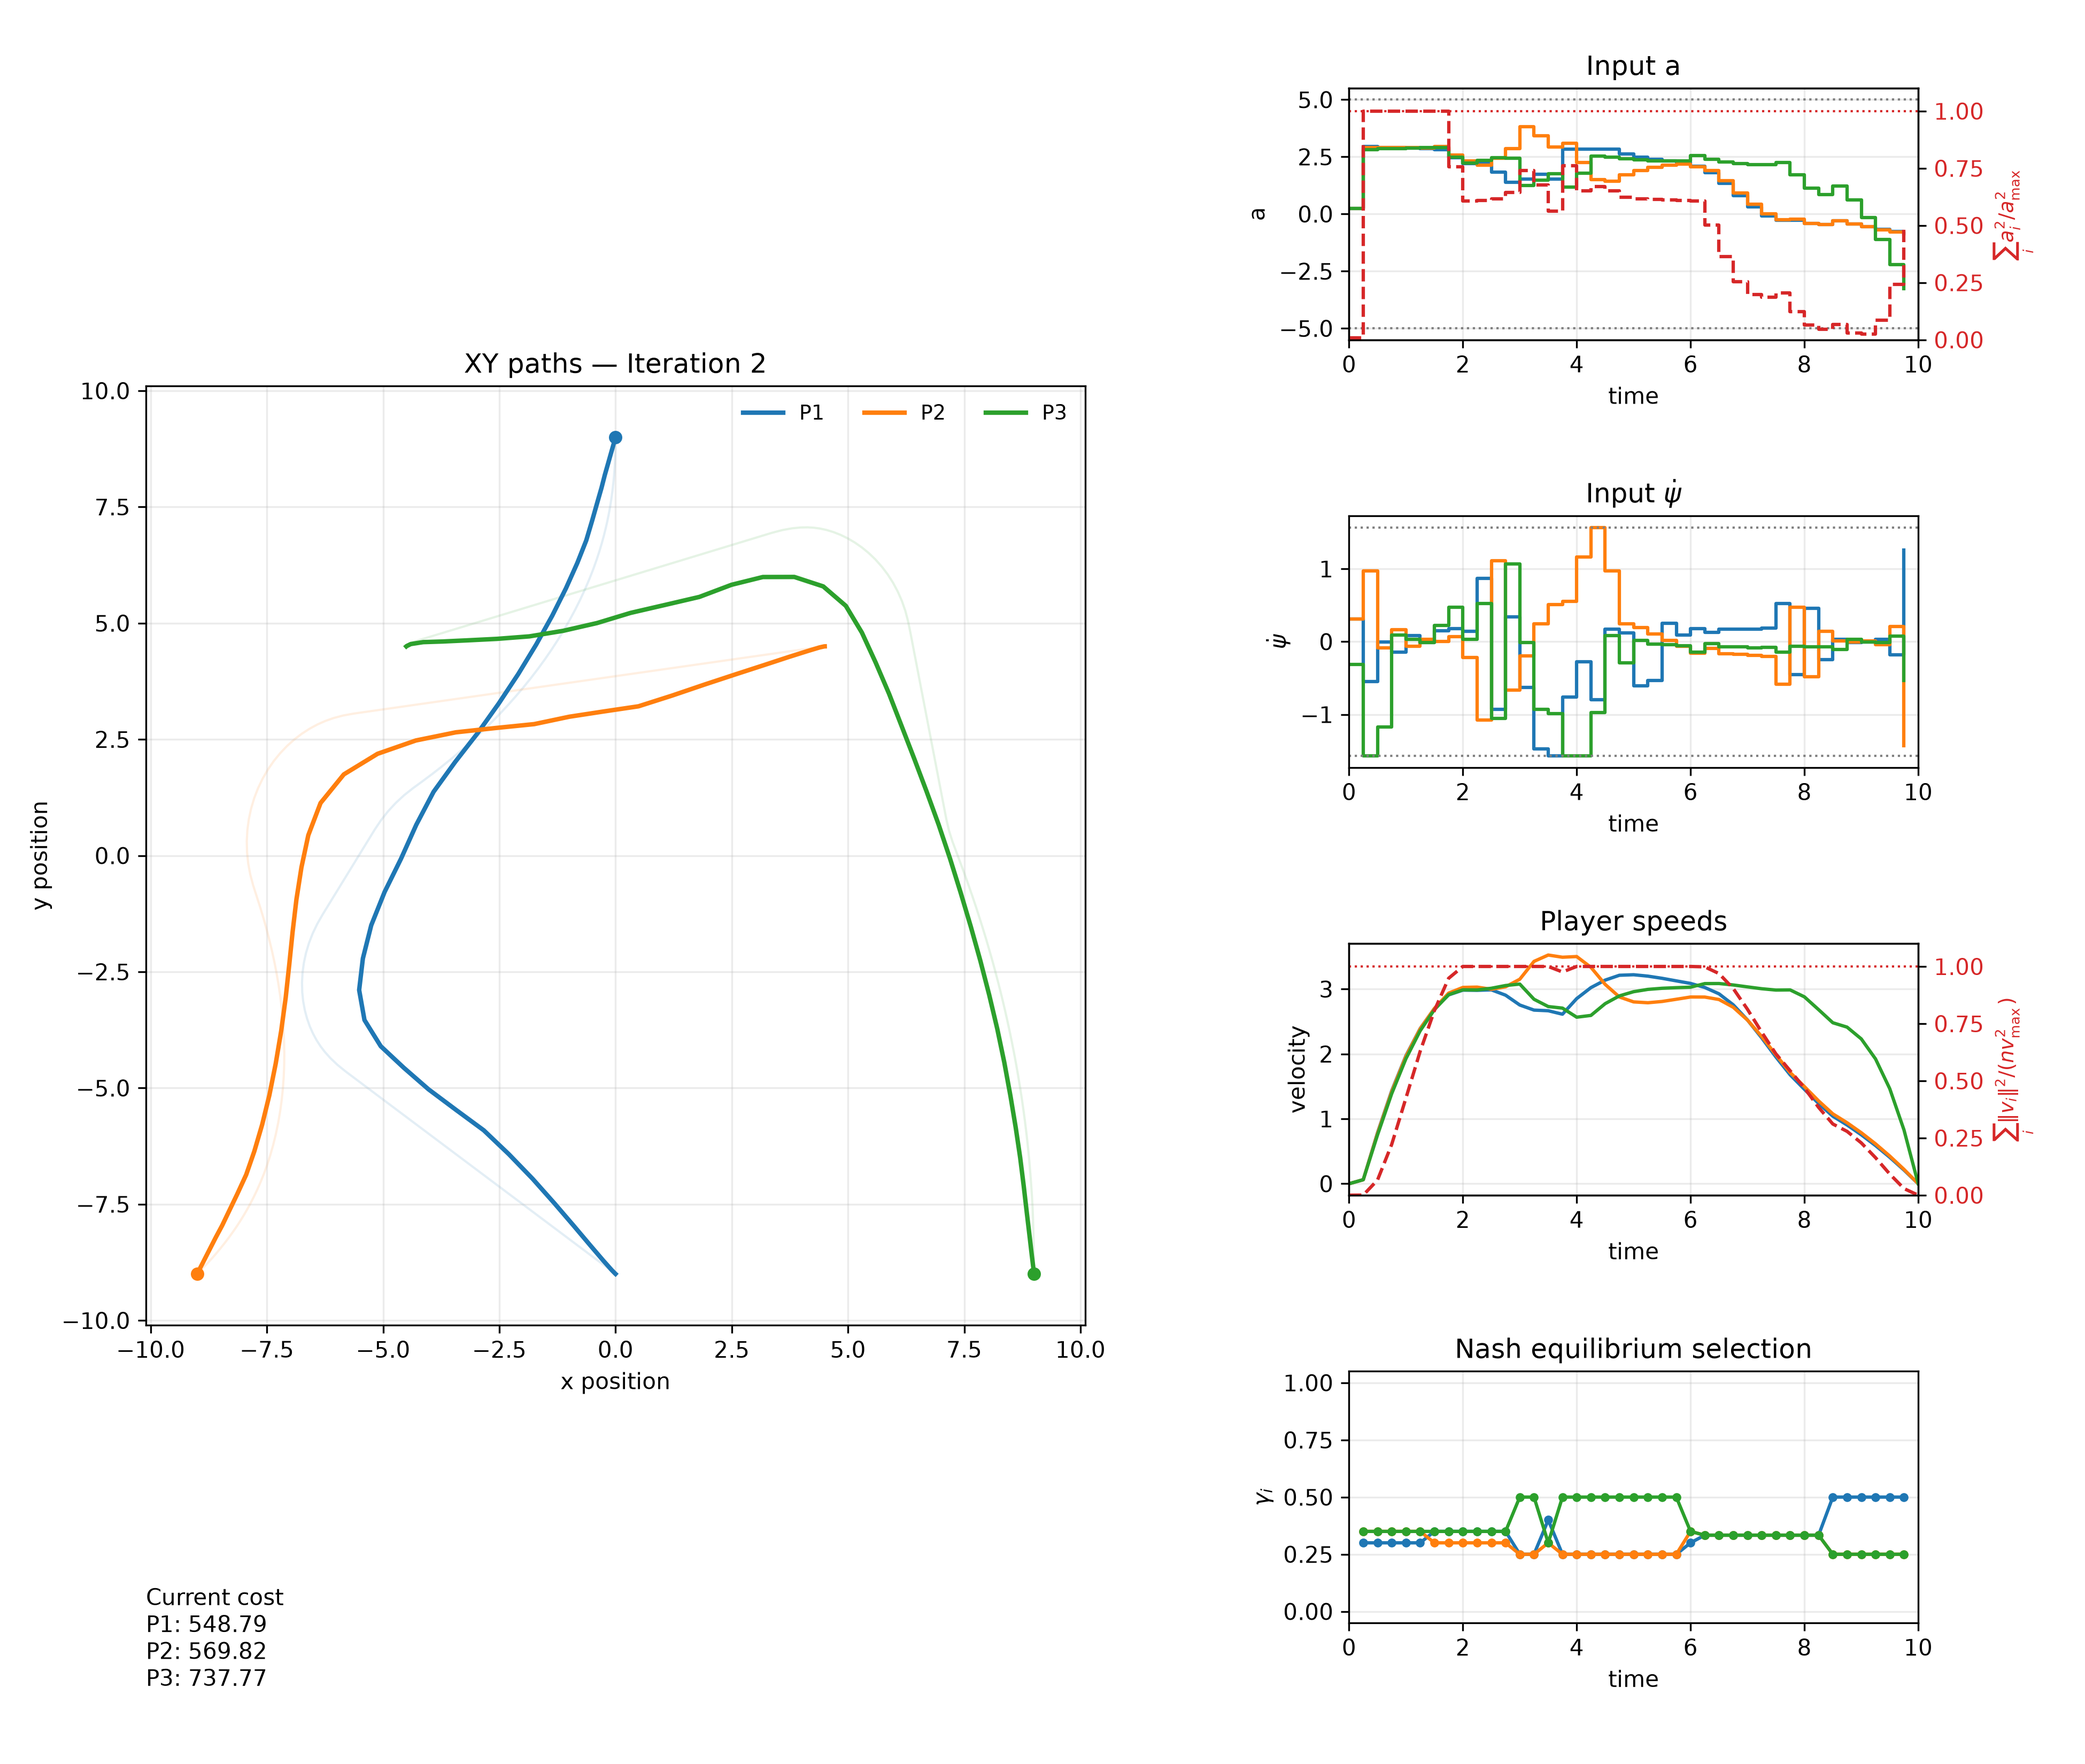
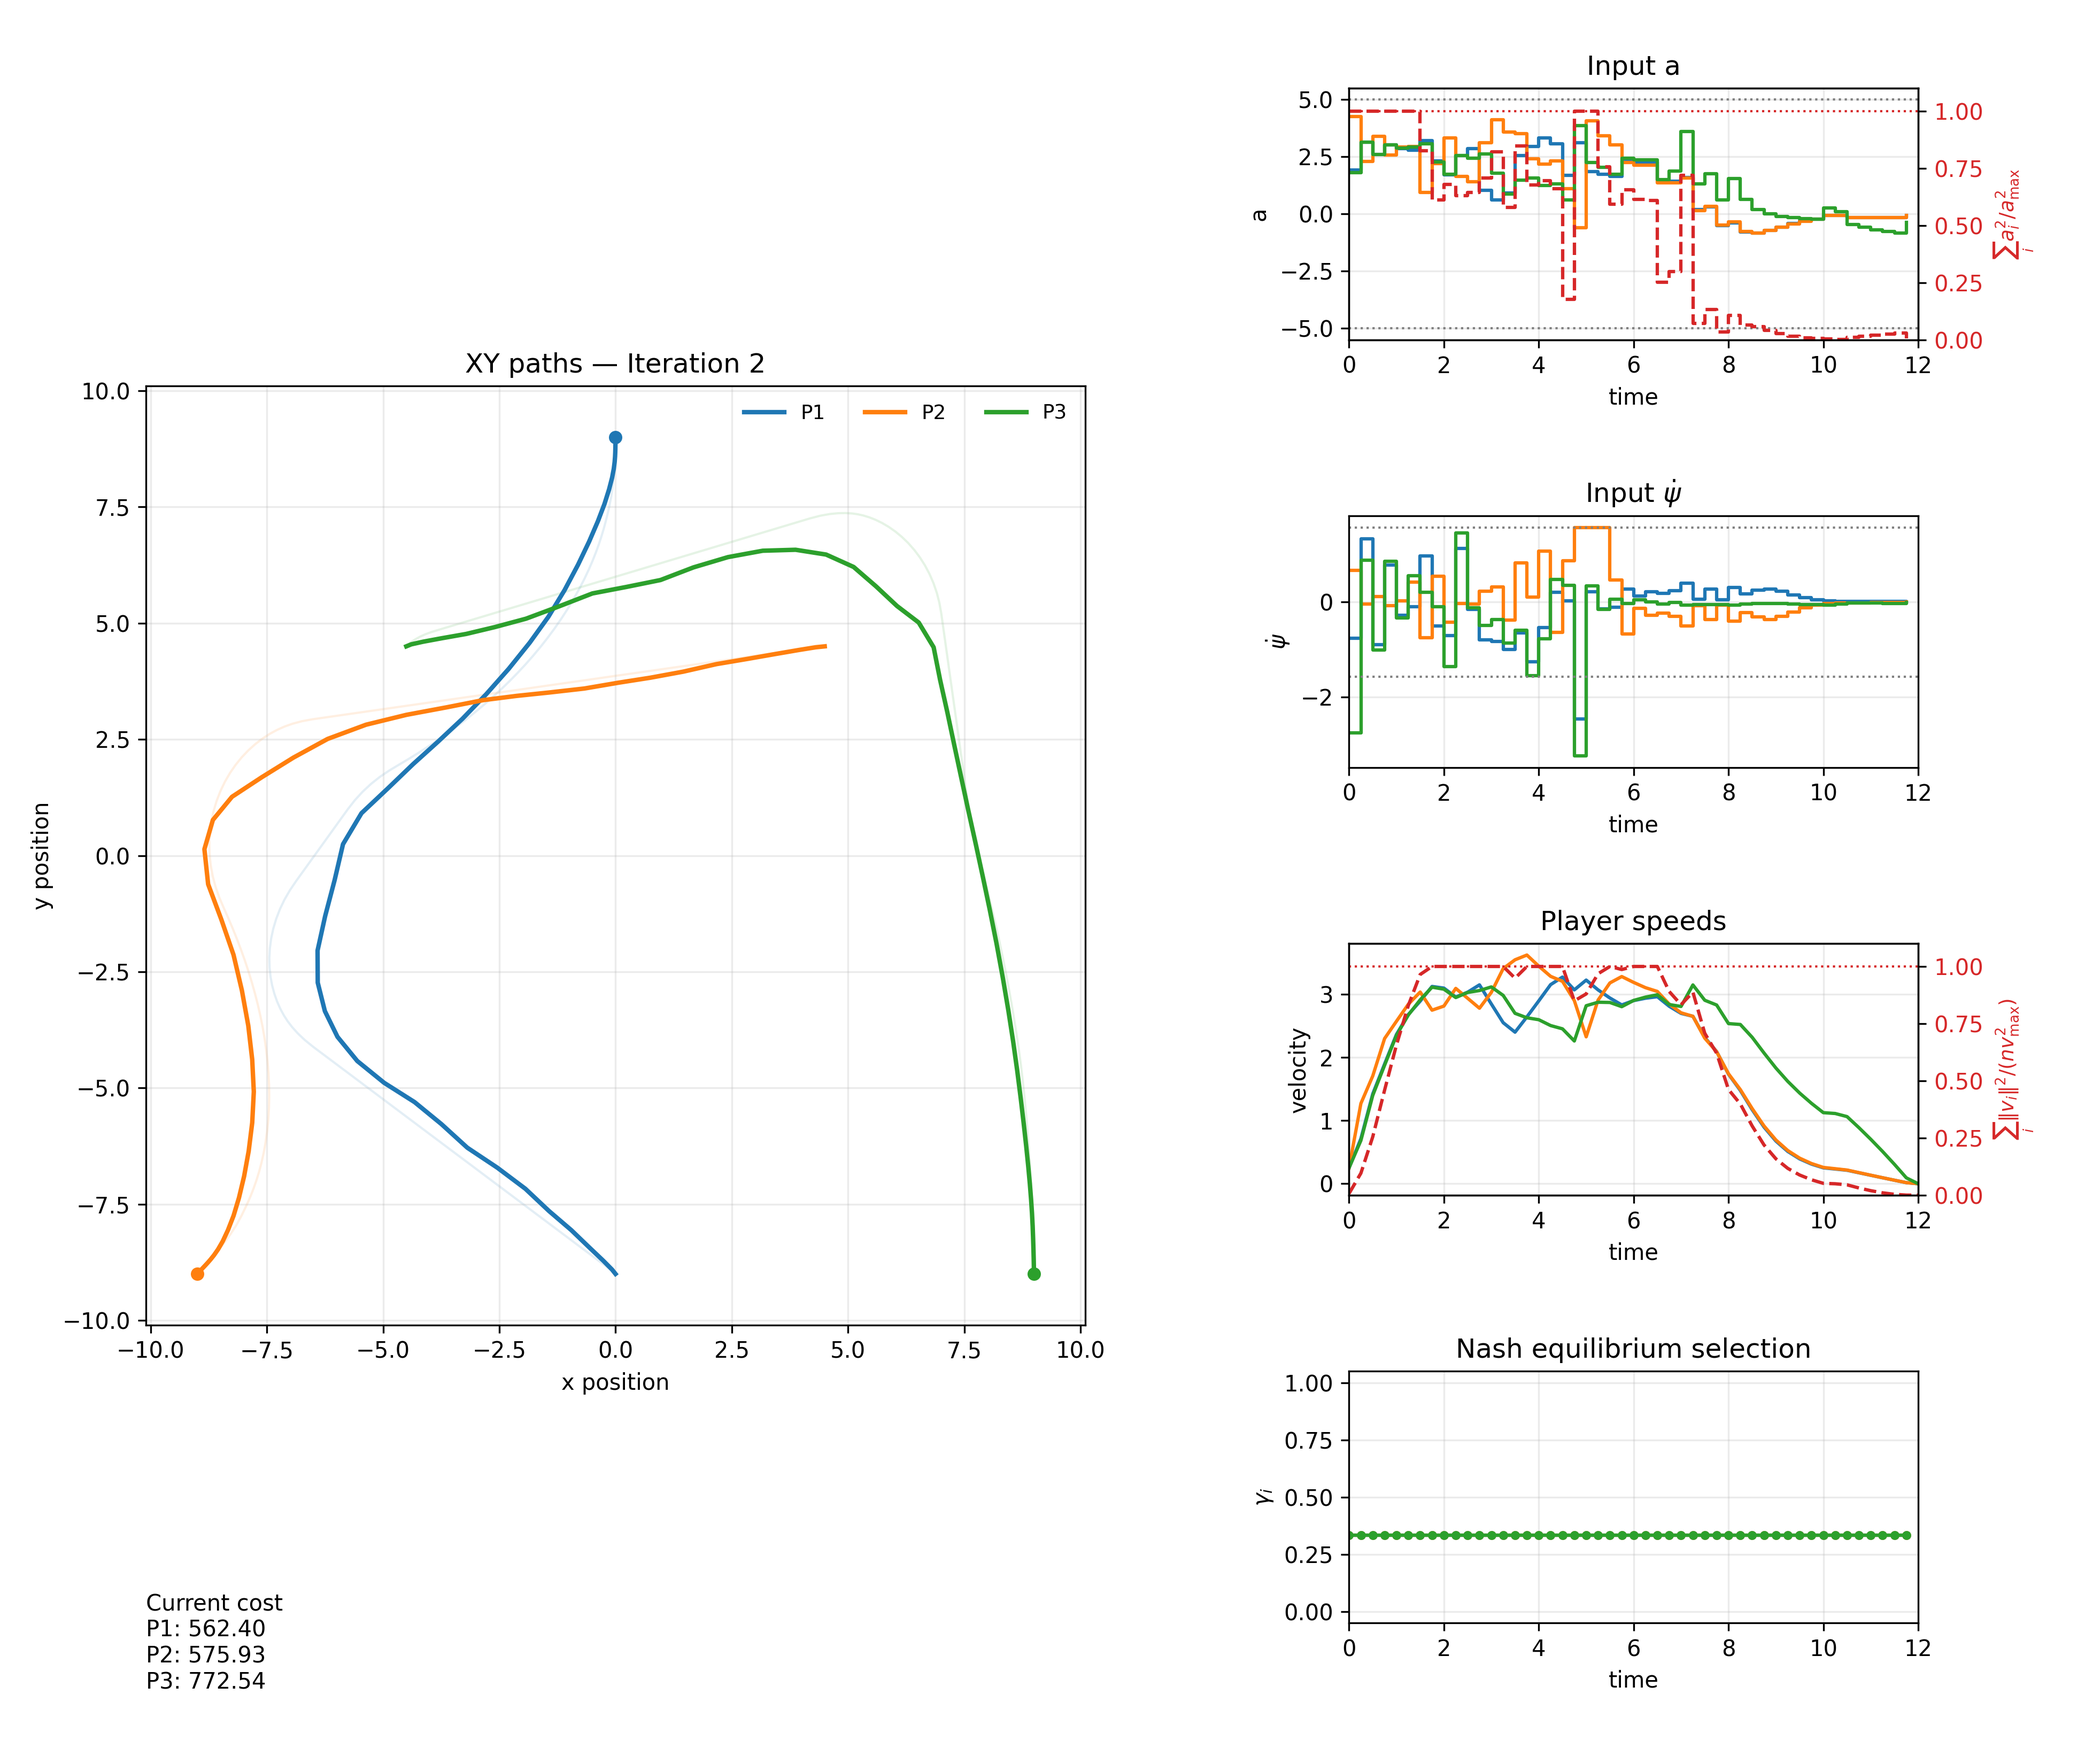
gammas bug

diff --git a/LDG_Simulation.py b/LDG_Simulation.py
@@ -33,8 +33,8 @@ terminal_constraint_mode = "sampled_points" # {"convex_hull", "sampled_points"}
 # Nash bargaining or a convex weighted sum of the two players' costs-to-go.
 cooperative_mode = True
 bargaining_gammas = np.array([0.5])
-bargaining_gamma1 = np.array([1/3.0, 0.35, 0.30, 0.35, 0.40, 0.30, 0.40, 0.50, 0.25, 0.25, 0.80, 0.10, 0.10])
-bargaining_gamma2 = np.array([1/3.0, 0.30, 0.35, 0.35, 0.30, 0.40, 0.40, 0.25, 0.50, 0.25, 0.10, 0.80, 0.10])
+bargaining_gamma1 = np.array([1/3.0, 0.35, 0.30, 0.35, 0.40, 0.30, 0.30, 0.50, 0.25, 0.25, 0.80, 0.10, 0.10])
+bargaining_gamma2 = np.array([1/3.0, 0.30, 0.35, 0.35, 0.30, 0.40, 0.30, 0.25, 0.50, 0.25, 0.10, 0.80, 0.10])
 bargaining_gamma1 = np.array([1/3.0])
 bargaining_gamma2 = np.array([1/3.0])
 cooperative_selection = "nash_bargaining" # "weighted_sum", "nash_bargaining"
